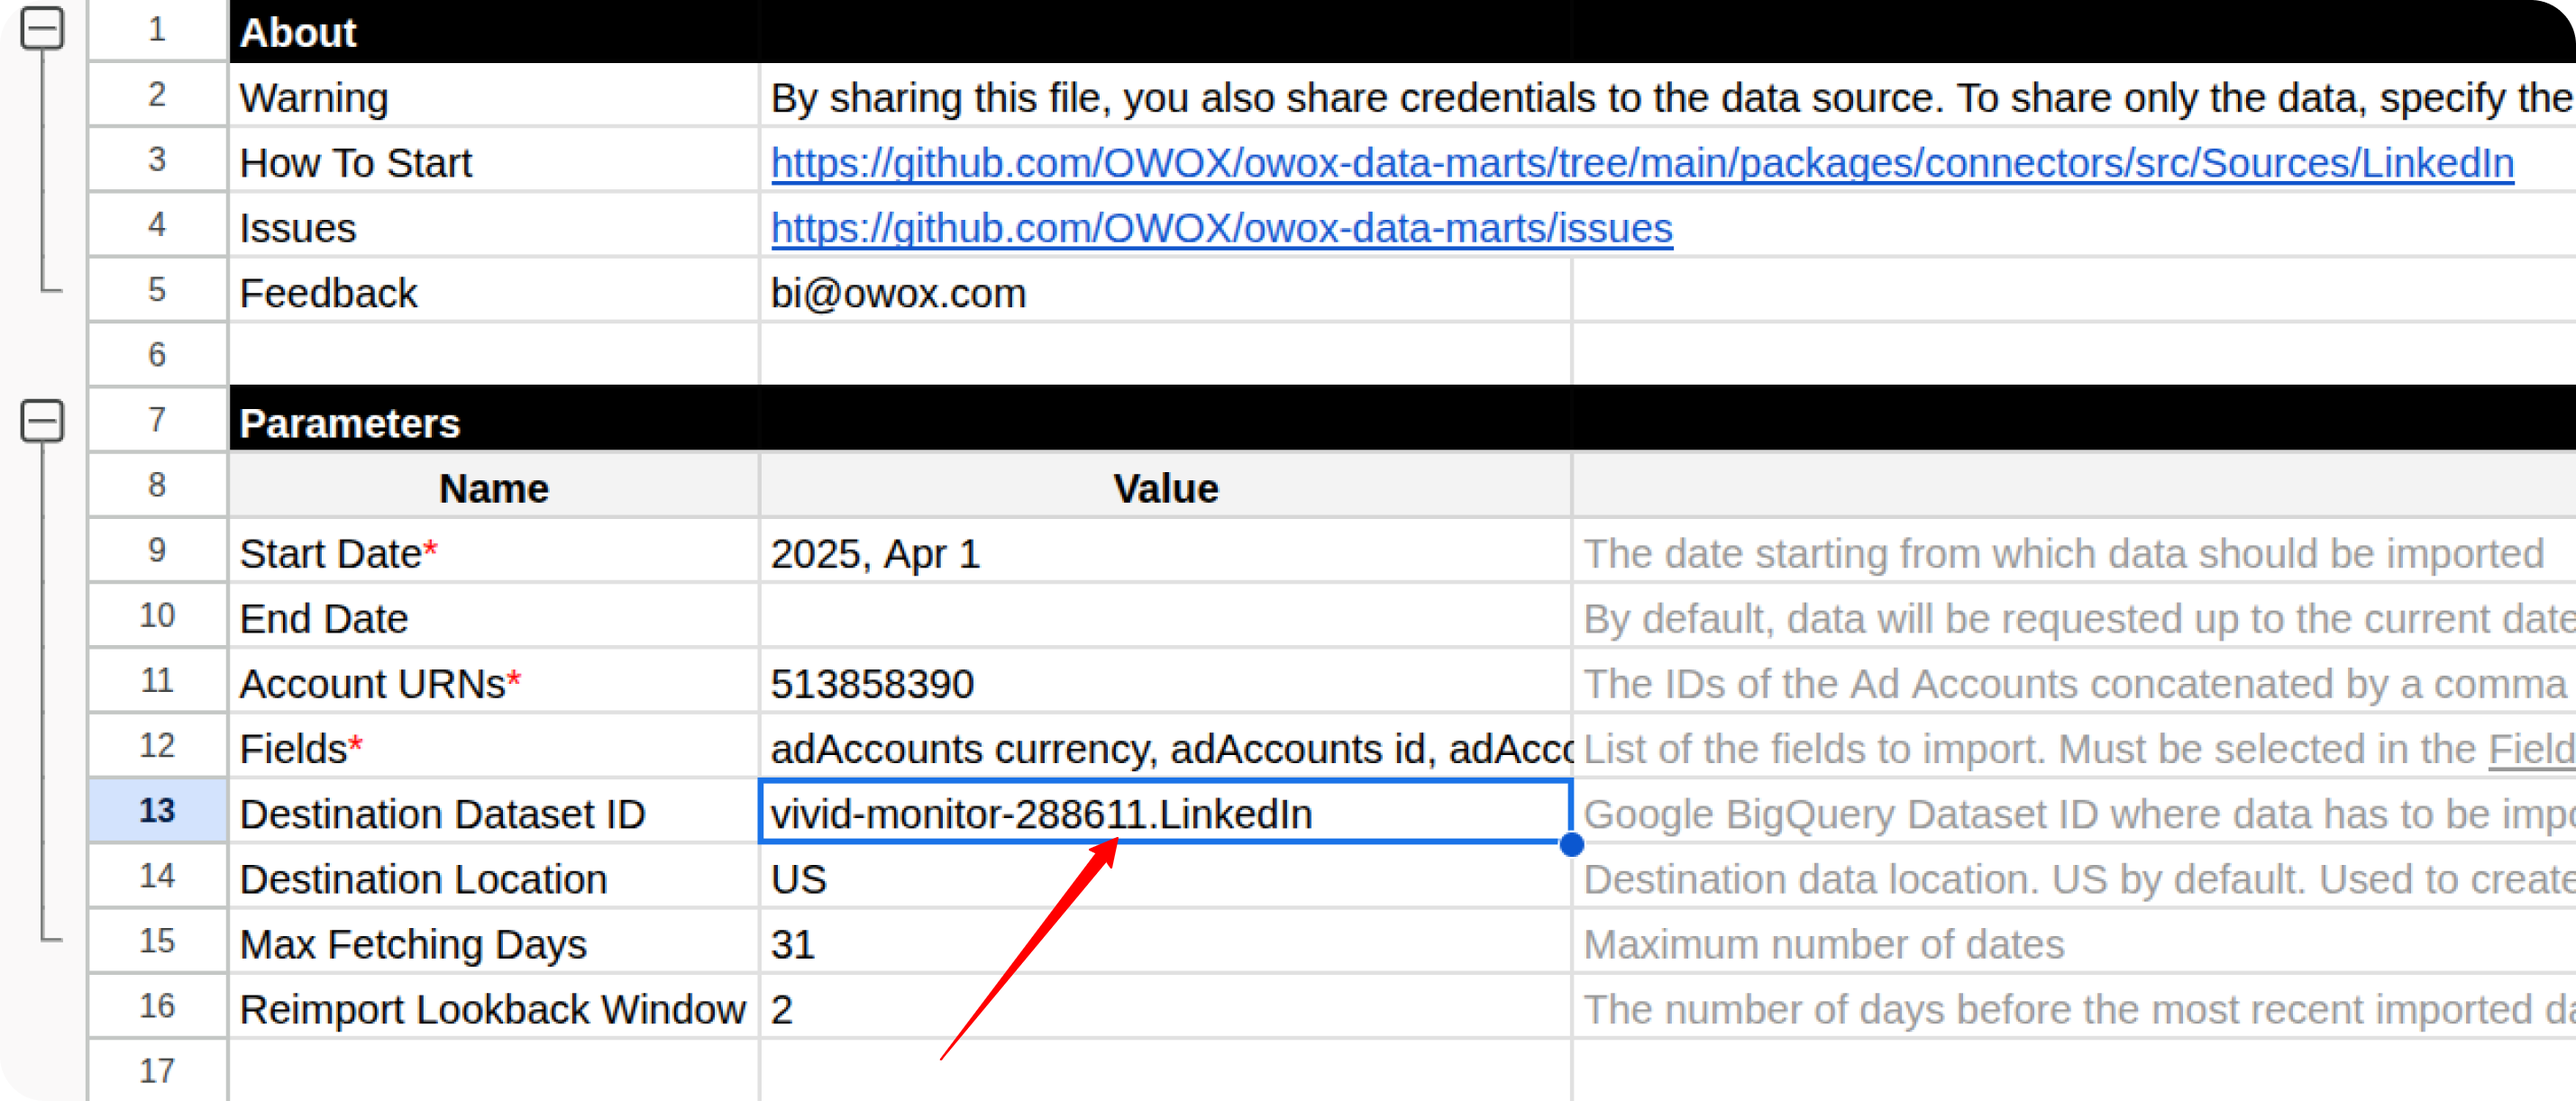
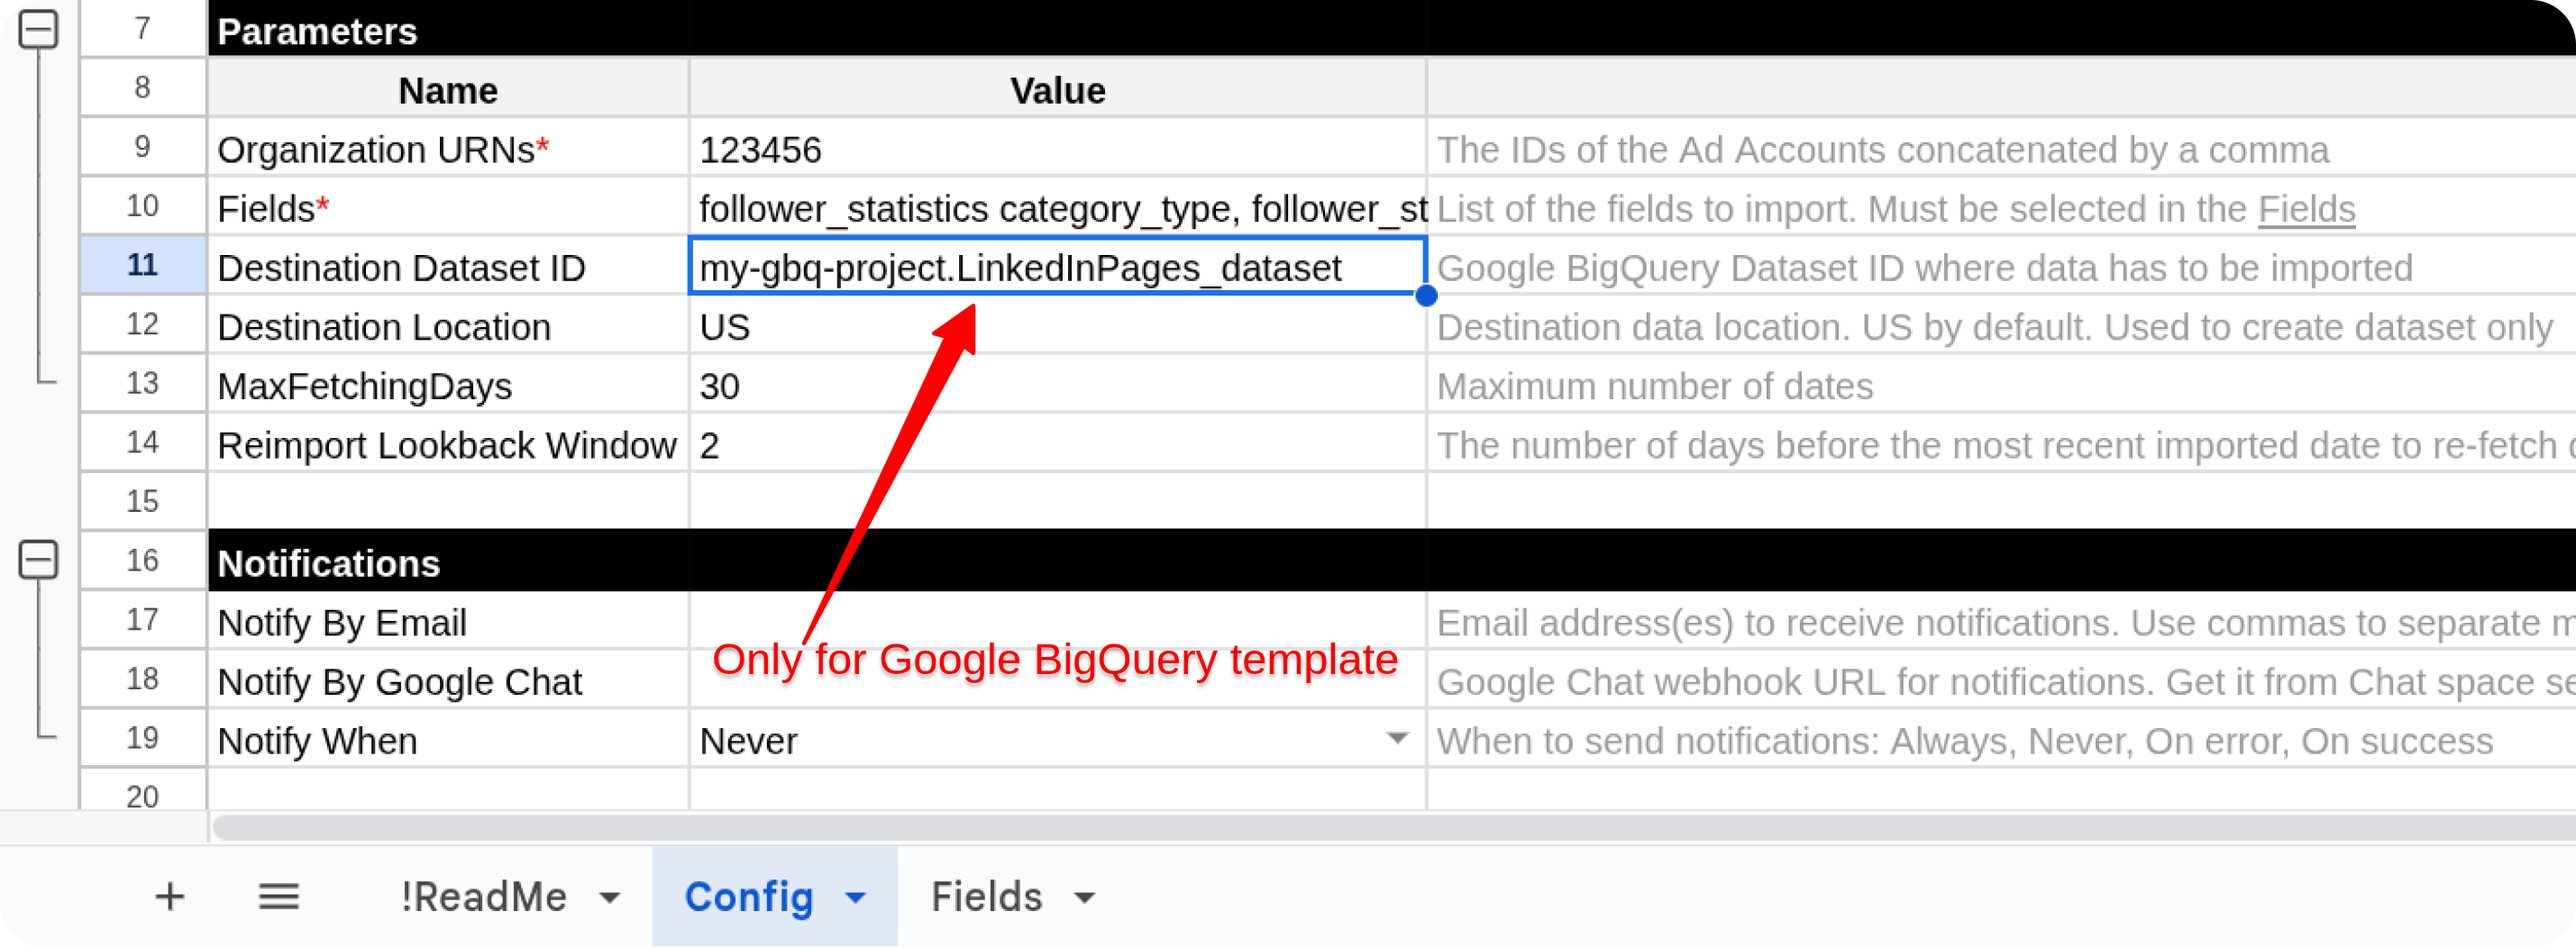
docs(linkedin): improve LinkedIn Pages import guide and update images; fix API logging (#482)
* Improved LinkedIn Pages import instructions in GETTING_STARTED.md
* Clarified usage of Organization URN in documentation
* Updated and added new images for user guidance
* Removed outdated or unused images from the res folder
* Enhanced error handling in the source code
* Removed debug logging of API responses for cleaner output

diff --git a/packages/connectors/src/Sources/LinkedInPages/Source.js b/packages/connectors/src/Sources/LinkedInPages/Source.js
@@ -172,7 +172,9 @@ var LinkedInPagesSource = class LinkedInPagesSource extends AbstractSource {
       
     const response = EnvironmentAdapter.fetch(authUrl, { headers });
     const result = JSON.parse(response.getContentText());
-      
+    if (result.status && result.status >= HTTP_STATUS.BAD_REQUEST) {
+      throw new Error(`LinkedIn API Error: ${result.message || 'Unknown error'} (Status: ${result.status})`);
+    }
     return result;
   }
   

diff --git a/packages/connectors/src/Sources/LinkedInPages/GETTING_STARTED.md b/packages/connectors/src/Sources/LinkedInPages/GETTING_STARTED.md
@@ -6,16 +6,10 @@ To receive data from the LinkedIn Pages source, please make a copy of the file
 
 Fill in required information:
 
-- **Start Date**
 - **Organization URNs**
 - **Fields**
 - **Destination Dataset ID** (for **Google BigQuery** template)
 - **Destination Location** (for **Google BigQuery** template)
-
-The import will begin from the selected **Start Date**.  
-> ⚠ Note: Choosing a long date range may cause the import to fail due to high data volume.
-
-![LinkedIn Start Date](res/linkedin_date.png)
 
 To obtain **Organization URN**, go to [LinkedIn Campaign Manager](https://www.linkedin.com/campaignmanager).
 
@@ -25,7 +19,7 @@ The URL may show something like:
 
 <https://www.linkedin.com/company/123456/admin/>
 
-Here, `123456` is the Organization URN.
+Here, `123456` is the Company ID and will be used as the Organization URN.
 
 To include fields, go to the **Fields** tab and check the boxes next to the fields you want to include.
 
@@ -48,21 +42,49 @@ Enter your Access Token obtained by following this tutorial: [**How to obtain th
 
 ![LinkedIn Token](res/linkedin_token.png)
 
-Click **OK**. Once your credentials are saved, click: **OWOX → Import New Data**
+Click **OK**.
 
-![LinkedIn Import Data](res/linkedin_import.png)
+Now you have **two options** for importing data from LinkedIn Pages:
 
-The import process is complete when the Log data displays **"Import is finished"**.
+Option 1: Import Current Day's Data
+
+Choose **OWOX → Import New Data** to load data for the **current day**.
+
+![LinkedIn Import New Data](res/linkedin_newdata.png)
+
+> ℹ If you click **Import New Data** again after a successful initial load,  
+> the connector will import: **Current day's data**, plus **Additional days**, based on the value in the **Reimport Lookback Window** field.
+
+![LinkedIn Reimport](res/linkedin_reimport.png)
+
+Option 2: Manual Backfill for Specific Date Range
+
+Choose **Manual Backfill** to load historical data for a custom time range.
+
+![LinkedIn Backfill](res/linkedin_backfill.png)
+
+1. Select the **Start Date** and **End Date**  
+2. Click the **Run Manual Backfill** button
+
+![LinkedIn Run Backfill](res/linkedin_runbackfill.png)
+
+The process is complete when the **Log** field shows the message:  
+**"Import is finished"**  
 
 Access Your Data:
 
-- In the **Google Sheets** template, the data will appear in new tabs labeled with the corresponding data types (e.g., *adAccounts*, *adCampaignGroups*).  
+- In the **Google Sheets** template, the data will appear in new tabs labeled with the corresponding data types (e.g., *follower_statistics*, *follower_statistics_time_bound*).  
 
-![LinkedIn Finished](res/linkedin_success.png)
+![LinkedIn Finished](res/linkedin_importsheets.png)
 
 - In the **Google BigQuery** template, the data will be written to the dataset specified earlier.
 
-![LinkedIn Finished](res/linkedin_bq.png)
+![LinkedIn Finished](res/linkedin_pages_bq.png)
+
+To import more data:
+
+1. Select the additional fields you need in the **Fields** tab.
+2. Go to **OWOX → Import New Data** or **OWOX → Run Manual Backfill** again.
 
 If you encounter any issues:
 
